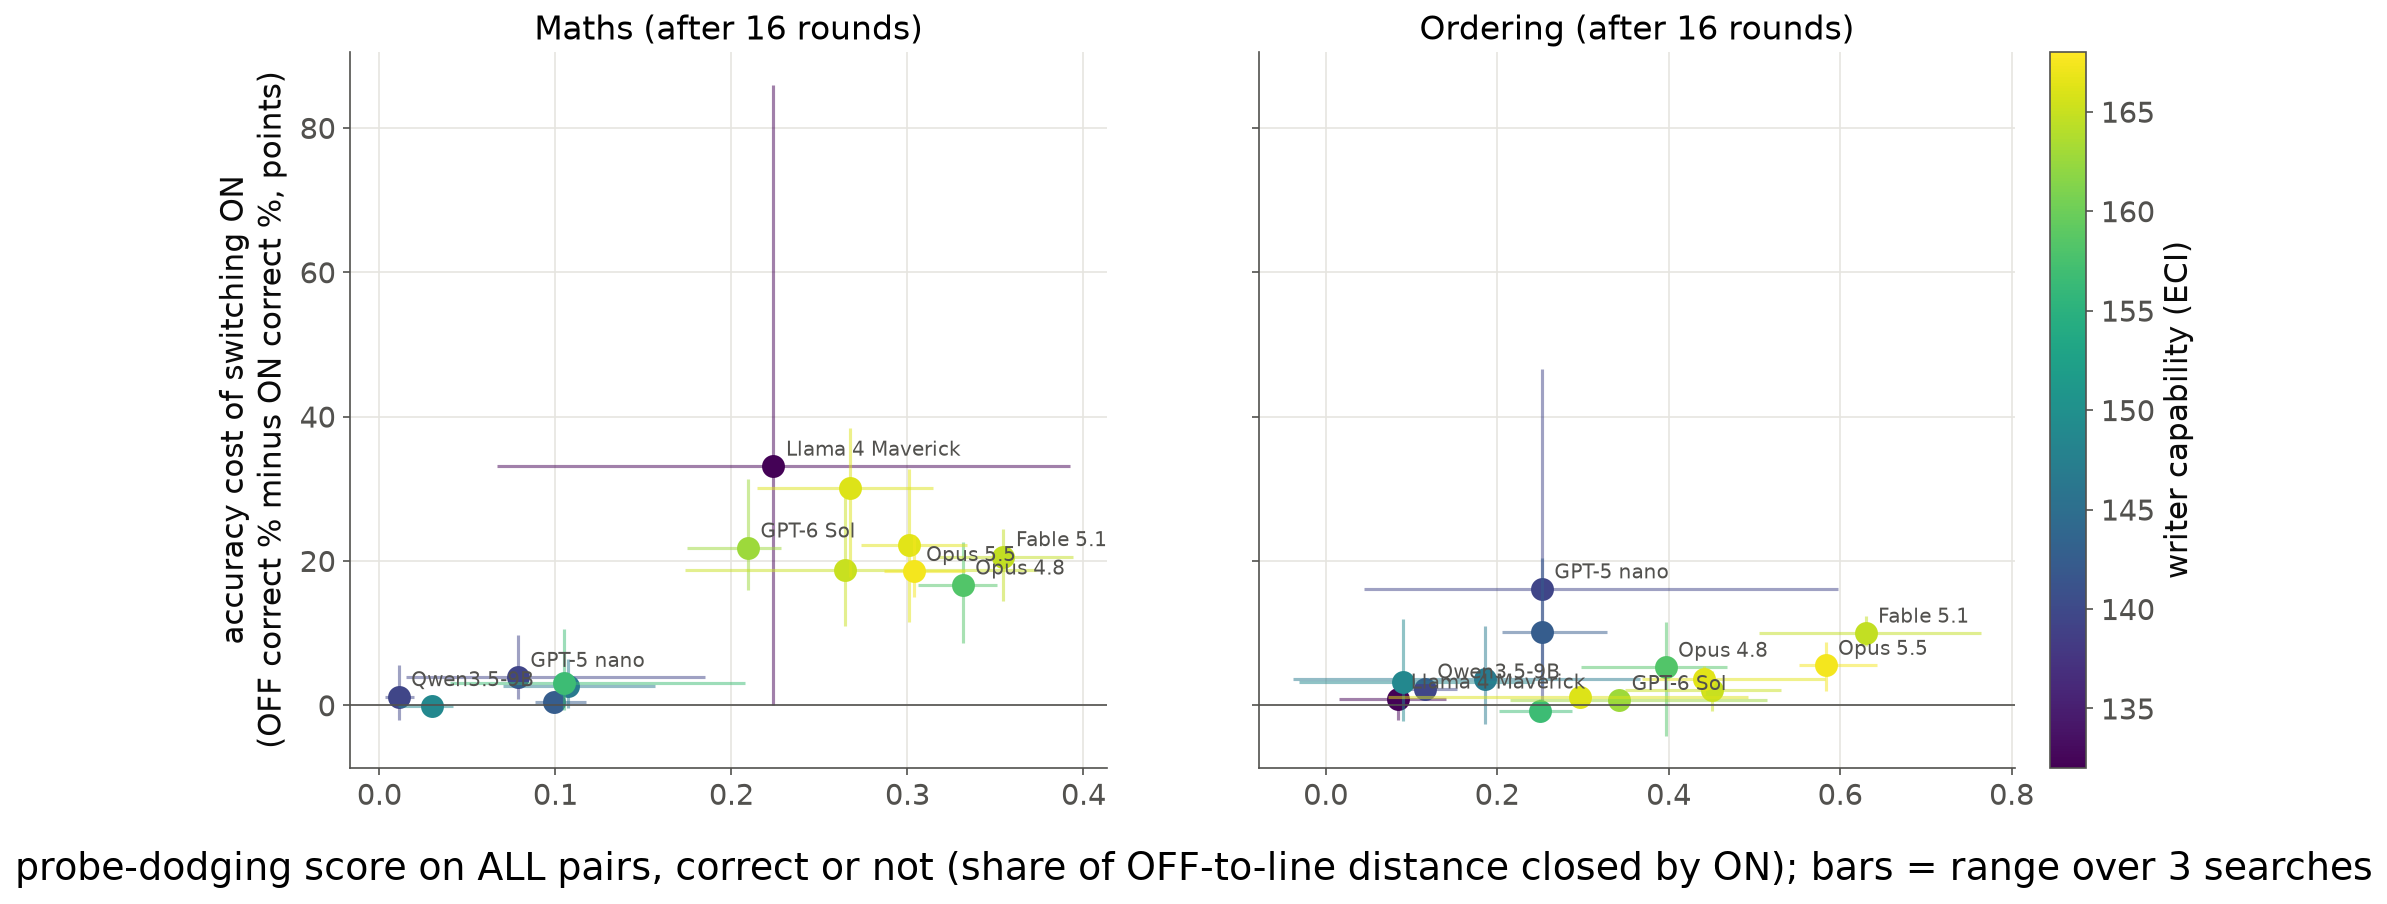
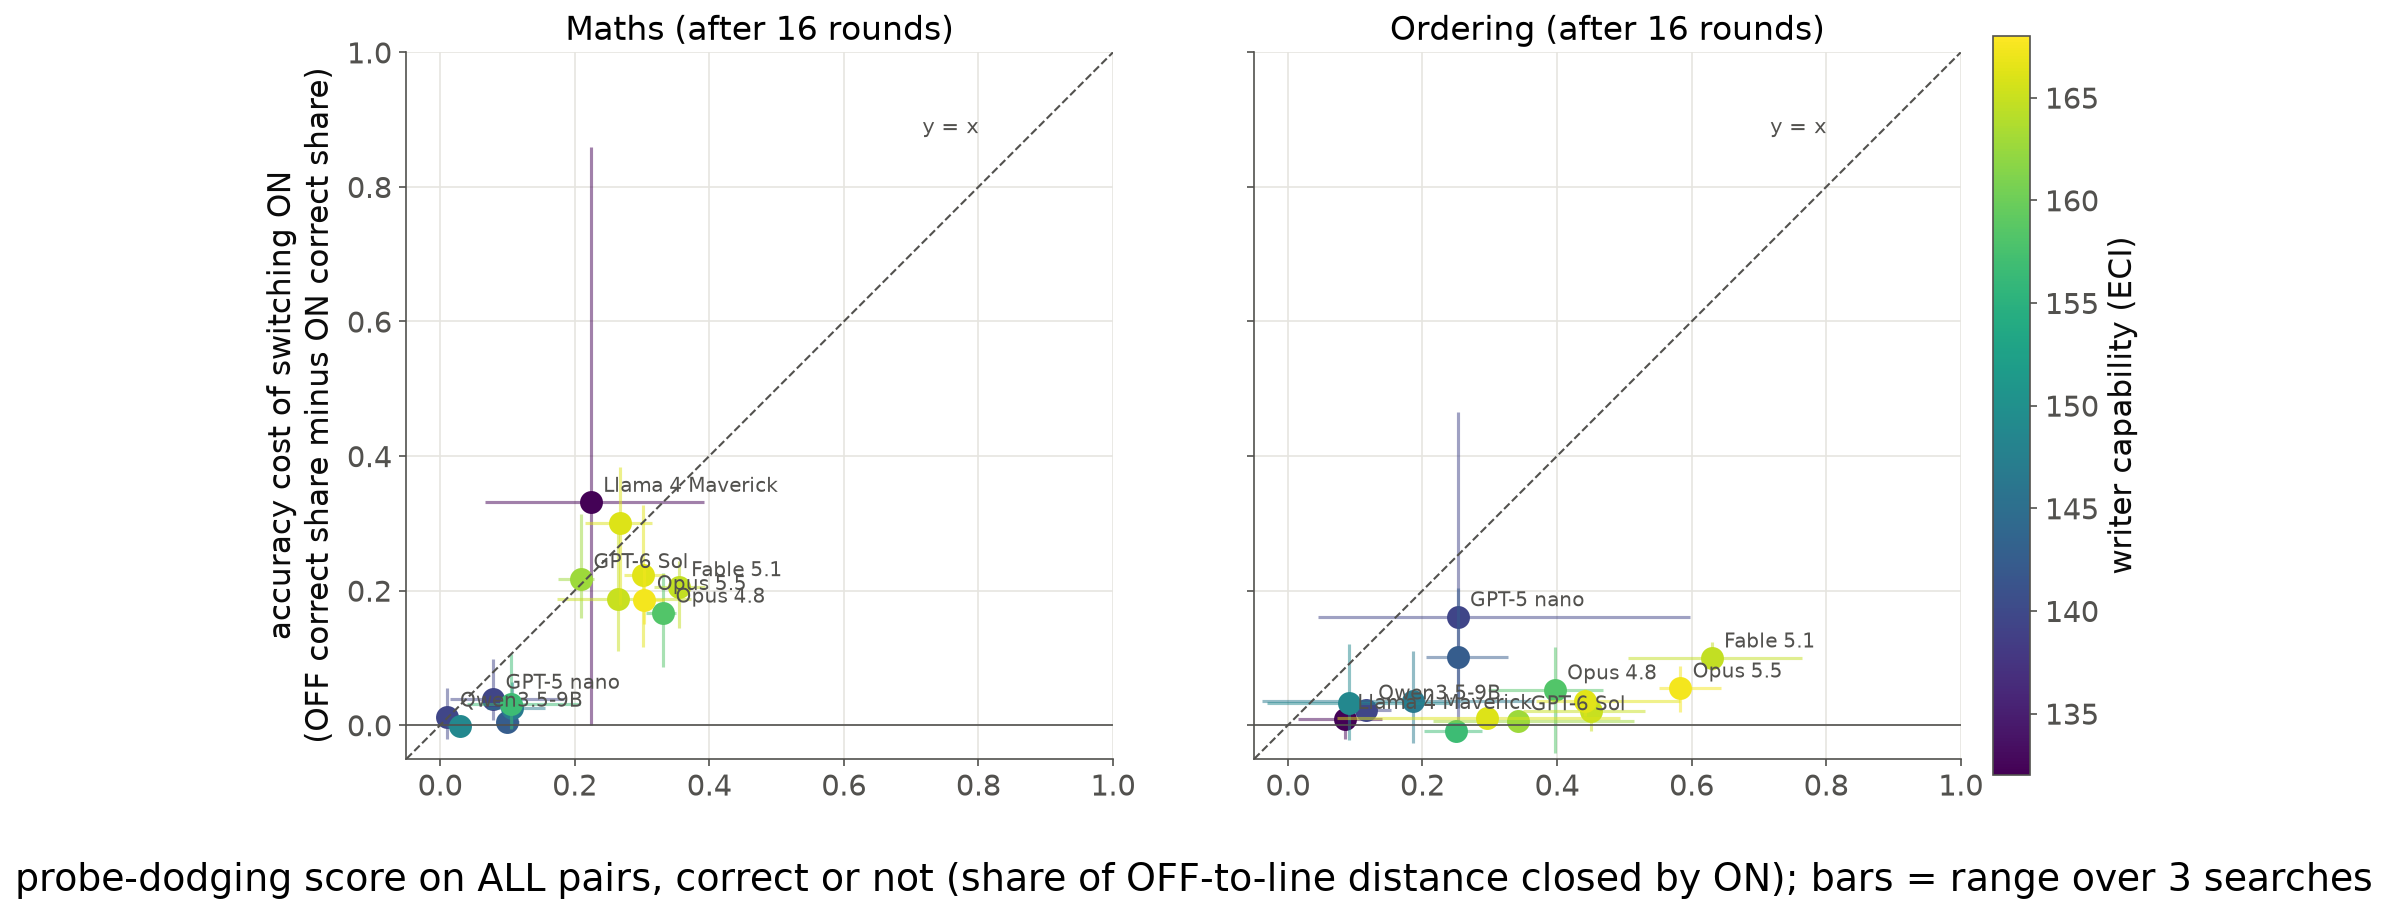
Cost graphs: square axes in shares with the y = x line

diff --git a/analysis/post_v8/rounds_and_success.py b/analysis/post_v8/rounds_and_success.py
@@ -66,10 +66,10 @@ def correct_shares(task: str, writer: str) -> dict[str, tuple[float, float]]:
 
 def fig_cost(m45: dict) -> None:
     """Dot = writer mean over its 3 searches; bars = range over the 3 searches (both axes)."""
-    fig, axes = plt.subplots(1, 2, figsize=(15, 6.2), sharey=True)
+    fig, axes = plt.subplots(1, 2, figsize=(14, 6.4), sharey=True)
     for ax, task in zip(axes, F.TASKS):
         for r in F.writer_rows(m45, task):
-            costs = [100 * (off - on) for on, off in correct_shares(task, r["writer"]).values()]
+            costs = [off - on for on, off in correct_shares(task, r["writer"]).values()]
             cost, c = float(np.mean(costs)), colour(r["eci"])
             ax.hlines(cost, min(r["values"]), max(r["values"]), color=c, lw=1.5, alpha=0.5)
             ax.vlines(r["mean"], min(costs), max(costs), color=c, lw=1.5, alpha=0.5)
@@ -77,15 +77,28 @@ def fig_cost(m45: dict) -> None:
             if r["writer"] in LABELLED:
                 ax.annotate(F.SHORT[r["writer"]], (r["mean"], cost), xytext=(6, 5), textcoords="offset points",
                             fontsize=9.5, color=F.v6.MUTED)
-            print(f"[{task}] {F.SHORT[r['writer']]}: cost {cost:+.1f} points (searches {', '.join(f'{x:+.1f}' for x in costs)})")
+            print(f"[{task}] {F.SHORT[r['writer']]}: cost {cost:+.3f} (searches {', '.join(f'{x:+.3f}' for x in costs)})")
         ax.axhline(0, color=F.v6.MUTED, lw=0.8)
         ax.set_title(f"{task.capitalize()} (after 16 rounds)")
-        ax.set_xlim(-0.05, 0.75)
+        square_axes(ax)
         ax.grid(color=F.v6.GRID)
-    axes[0].set_ylabel("accuracy cost of switching ON\n(OFF correct % minus ON correct %, points)")
+    axes[0].set_ylabel("accuracy cost of switching ON\n(OFF correct share minus ON correct share)")
     fig.supxlabel("probe-dodging score (share of OFF-to-line distance closed by ON); bars = range over 3 searches", y=-0.02)
     colourbar(fig, axes)
     fig.savefig(F.OUT / "cost.png", bbox_inches="tight")
+
+
+SQUARE_LIMITS = (-0.05, 1.0)
+
+
+def square_axes(ax) -> None:
+    """Same scale on both axes (shares from 0 to 1) with the y = x diagonal: above it, a writer loses more accuracy than
+    it closes of the distance to the line."""
+    ax.plot(SQUARE_LIMITS, SQUARE_LIMITS, ls="--", color=F.v6.MUTED, lw=1)
+    ax.text(0.80, 0.88, "y = x", ha="right", fontsize=10, color=F.v6.MUTED)
+    ax.set_xlim(*SQUARE_LIMITS)
+    ax.set_ylim(*SQUARE_LIMITS)
+    ax.set_aspect("equal")
 
 
 def colour(eci: float):

diff --git a/analysis/post_v8/dodge_all_pairs.py b/analysis/post_v8/dodge_all_pairs.py
@@ -66,14 +66,14 @@ def point_biserial(scores: list[float], correct: list[bool]) -> float | None:
 def main() -> None:
     m45 = F.load_m45()
     report = ["# Probe dodging on all pairs vs correctness (m45 frozen test, B = 16, 14 writers)\n"]
-    fig, axes = plt.subplots(1, 2, figsize=(15, 6.2), sharey=True)
+    fig, axes = plt.subplots(1, 2, figsize=(14, 6.4), sharey=True)
     for ax, task in zip(axes, F.TASKS):
         broad = BROAD_LINES[task]["broad_cal_iv_1pct"]["line"]
         within, wrong_minus_right, confusion = [], [], {"on": np.zeros((2, 2), int), "off": np.zeros((2, 2), int)}
         for r in F.writer_rows(m45, task):
             chains = arm_rows(task, r["writer"])
             dodges = [dodge_all(rows, STRICT_LINE[task]) for rows in chains.values()]
-            costs = [100 * (np.mean([x[3] for x in rows]) - np.mean([x[1] for x in rows])) for rows in chains.values()]
+            costs = [float(np.mean([x[3] for x in rows]) - np.mean([x[1] for x in rows])) for rows in chains.values()]
             c = R.colour(r["eci"])
             ax.hlines(np.mean(costs), min(dodges), max(dodges), color=c, lw=1.5, alpha=0.5)
             ax.vlines(np.mean(dodges), min(costs), max(costs), color=c, lw=1.5, alpha=0.5)
@@ -93,6 +93,7 @@ def main() -> None:
                     confusion["off"][int(x[2] <= broad), int(x[3])] += 1
         ax.axhline(0, color=F.v6.MUTED, lw=0.8)
         ax.set_title(f"{task.capitalize()} (after 16 rounds)")
+        R.square_axes(ax)
         ax.grid(color=F.v6.GRID)
         report += [f"\n## {task.capitalize()}\n",
                    f"**Within each template** ({len(within)} searches with at least 5 wrong ON answers): correlation of ON "
@@ -105,7 +106,7 @@ def main() -> None:
         for label, side in (("ON", "on"), ("OFF (baseline)", "off")):
             m = confusion[side]
             report += [f"| {label} dodged | {m[1, 1]:,} | {m[1, 0]:,} |", f"| {label} caught | {m[0, 1]:,} | {m[0, 0]:,} |"]
-    axes[0].set_ylabel("accuracy cost of switching ON\n(OFF correct % minus ON correct %, points)")
+    axes[0].set_ylabel("accuracy cost of switching ON\n(OFF correct share minus ON correct share)")
     fig.supxlabel("probe-dodging score on ALL pairs, correct or not (share of OFF-to-line distance closed by ON); "
                   "bars = range over 3 searches", y=-0.02)
     R.colourbar(fig, axes)
